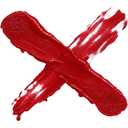
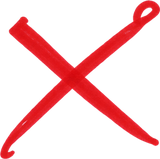
feat(simple-calendar): past days struck off with loose red-marker crosses
Four generated marker scribbles replace the finger-painted crosses; each is drawn a
little wider than its day's cell so the strokes fly past it, at a slant and offset
that change with the date, the number still showing through.

diff --git a/inkypi-weather/package/InkyPi/src/plugins/simple_calendar/simple_calendar.py b/inkypi-weather/package/InkyPi/src/plugins/simple_calendar/simple_calendar.py
@@ -217,7 +217,7 @@ _LETTER_W, _LETTER_H = 5, 7
 
 
 # The month's wall-calendar page (calendar_page/): inset, room above for the binder rings,
-# hard shadow, ring size and spacing; four finger-painted crosses strike off the days gone by and
+# hard shadow, ring size and spacing; four red-marker crosses strike off the days gone by and
 # a drop of blood lands on today (calendar_page/marks.source.json).
 CALENDAR_PAGE_DIR = Path(__file__).with_name("calendar_page")
 CALENDAR_PAGE_INSET = 3
@@ -240,8 +240,12 @@ CALENDAR_BACKDROP_SHARE = 0.42
 CALENDAR_BACKDROP_EDGE = 46
 CALENDAR_BACKDROP_INNER = 0.32
 CALENDAR_AGENDA_BAND = 70
-# A cross spans a little more than the today circle and lets the struck-off number show through.
-CALENDAR_CROSS_SCALE = 1.45
+# A cross is scribbled over a past day like a hand with a red marker would: wider and taller
+# than the day's cell, at a slant and off-centre that change with the date, and the struck-off
+# number shows through it.
+CALENDAR_CROSS_SPAN = (1.15, 1.0)
+CALENDAR_CROSS_TILT = 10
+CALENDAR_CROSS_SHIFT = 0.08
 CALENDAR_CROSS_OPACITY = 0.88
 # Today's blood drop: its splat's radius as a share of the art (marks.source.json), drawn this
 # much larger than the old today circle; the falling drop and drips reach past the cell.
@@ -776,13 +780,12 @@ class SimpleCalendar(PanelStageMixin, BasePlugin):
                         stroke_width=2 if bled else 0, stroke_fill=CALENDAR_BLOOD_INK,
                     )
                 elif day < selected_date.day:
-                    # A day already lived: its number fades and a finger-painted red cross strikes it off.
+                    # A day already lived: its number fades and a red marker cross strikes it off.
                     draw.text(
                         (col_cx, row_cy), str(day),
                         fill=muted_text, font=day_font, anchor="mm",
                     )
-                    self._cross_off_day(img, selected_date.replace(day=day), (col_cx, row_cy),
-                                        today_circle_r * CALENDAR_CROSS_SCALE)
+                    self._cross_off_day(img, selected_date.replace(day=day), (col_cx, row_cy), (col_w, row_h))
                 else:
                     draw.text(
                         (col_cx, row_cy), str(day),
@@ -900,16 +903,23 @@ class SimpleCalendar(PanelStageMixin, BasePlugin):
         return True
 
     @staticmethod
-    def _cross_off_day(img, day, centre, size):
-        """Paste one of the finger-painted crosses over a past day, the same one for that date every time."""
-        variant = 1 + (day.toordinal() * 7 + day.day) % CALENDAR_CROSS_VARIANTS
+    def _cross_off_day(img, day, centre, cell):
+        """Scribble one of the marker crosses over a past day, overshooting its ``cell`` (width,
+        height); the cross, slant and offset are the same for that date every time."""
+        seed = day.toordinal()
+        variant = 1 + (seed * 7 + day.day) % CALENDAR_CROSS_VARIANTS
         mark = _calendar_page_art(f"cross_{variant}.png")
         if mark is None:
             return
-        side = max(8, int(size))
-        mark = mark.resize((side, side), Image.LANCZOS)
+        width = max(8, round(cell[0] * CALENDAR_CROSS_SPAN[0]))
+        height = max(8, round(cell[1] * CALENDAR_CROSS_SPAN[1]))
+        tilt = (seed * 37) % (2 * CALENDAR_CROSS_TILT + 1) - CALENDAR_CROSS_TILT
+        mark = mark.resize((width, height), Image.LANCZOS).rotate(tilt, resample=Image.BICUBIC, expand=True)
+        shift_x = ((seed * 13) % 9 - 4) / 4 * cell[0] * CALENDAR_CROSS_SHIFT
+        shift_y = ((seed * 29) % 9 - 4) / 4 * cell[1] * CALENDAR_CROSS_SHIFT
         alpha = mark.getchannel("A").point(lambda value: round(value * CALENDAR_CROSS_OPACITY))
-        img.paste(mark, (round(centre[0] - side / 2), round(centre[1] - side / 2)), alpha)
+        img.paste(mark, (round(centre[0] + shift_x - mark.width / 2), round(centre[1] + shift_y - mark.height / 2)),
+                  alpha)
 
     def _draw_focus_panel_background(self, img, left, top, right, bottom, panel_bg, weather_panel_background_path):
         panel_w = right - left

diff --git a/inkypi-weather/package/InkyPi/tests/test_simple_calendar_marks.py b/inkypi-weather/package/InkyPi/tests/test_simple_calendar_marks.py
@@ -1,4 +1,4 @@
-"""The month grid's marks: a drop of blood on today, finger-painted crosses over the days gone by."""
+"""The month grid's marks: a drop of blood on today, red marker crosses over the days gone by."""
 
 import sys
 from datetime import date
@@ -25,15 +25,25 @@ def test_the_blood_drop_lands_with_its_splat_on_today():
     assert image.getpixel((100 - 60, 100 - 10)) == (255, 255, 255)
 
 
-def test_crosses_are_finger_painted_and_let_the_number_show_through():
+def test_crosses_are_marker_scribbles_and_let_the_number_show_through():
     for variant in range(1, module.CALENDAR_CROSS_VARIANTS + 1):
         art = module._calendar_page_art(f"cross_{variant}.png")
-        assert art is not None and art.size == (128, 128) and art.getchannel("A").getextrema()[0] == 0
-    image = Image.new("RGB", (120, 120), (0, 0, 0))
+        assert art is not None and art.width >= art.height and art.getchannel("A").getextrema()[0] == 0
+    image = Image.new("RGB", (160, 120), (0, 0, 0))
 
-    SimpleCalendar._cross_off_day(image, date(2026, 10, 3), (60, 60), 90)
+    SimpleCalendar._cross_off_day(image, date(2026, 10, 3), (80, 60), (60, 40))
 
     # Not one pixel is painted fully opaque: the struck-off number stays readable underneath.
-    pixels = [image.getpixel((x, y)) for x in range(120) for y in range(120)]
+    pixels = [image.getpixel((x, y)) for x in range(160) for y in range(120)]
     reddest = max(pixels, key=lambda pixel: pixel[0])
     assert 0 < reddest[0] < 255 * module.CALENDAR_CROSS_OPACITY + 2
+    # The scribble runs out past the day's 60 x 40 cell on both sides.
+    inked = [x for x in range(160) for y in range(120) if image.getpixel((x, y))[0] > 40]
+    assert min(inked) < 80 - 30 and max(inked) > 80 + 30
+
+
+def test_each_day_gets_its_own_slant_and_offset():
+    first, second = Image.new("RGB", (160, 120)), Image.new("RGB", (160, 120))
+    SimpleCalendar._cross_off_day(first, date(2026, 10, 3), (80, 60), (60, 40))
+    SimpleCalendar._cross_off_day(second, date(2026, 10, 7), (80, 60), (60, 40))
+    assert first.tobytes() != second.tobytes()
